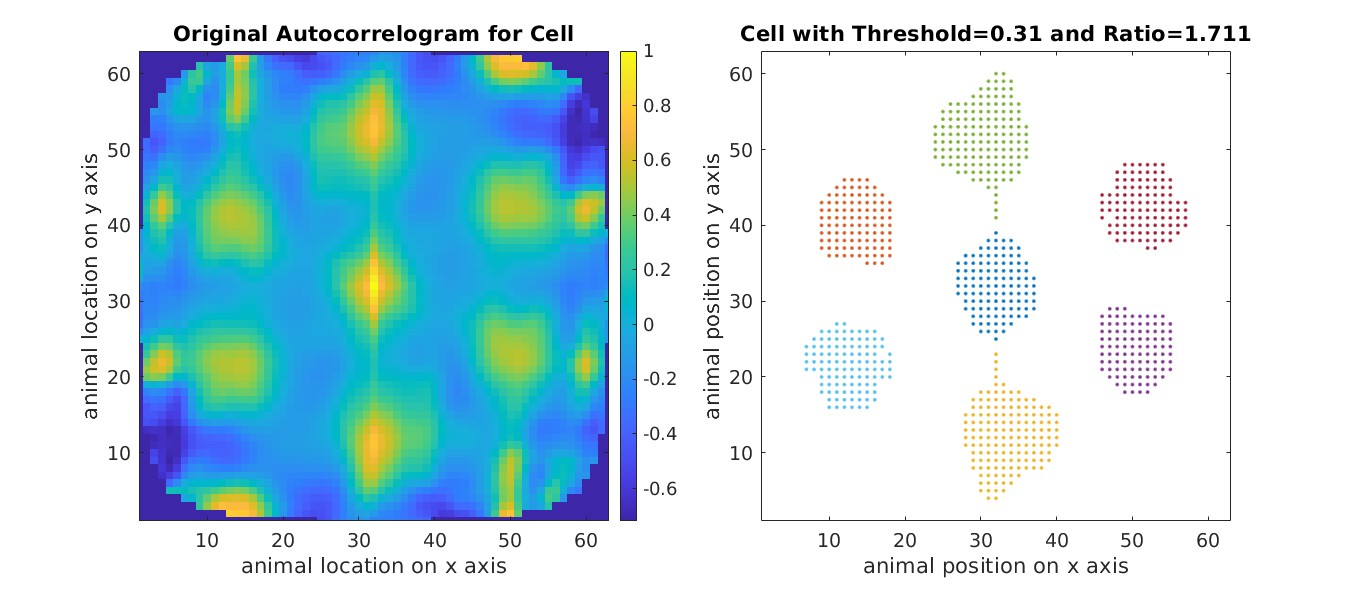
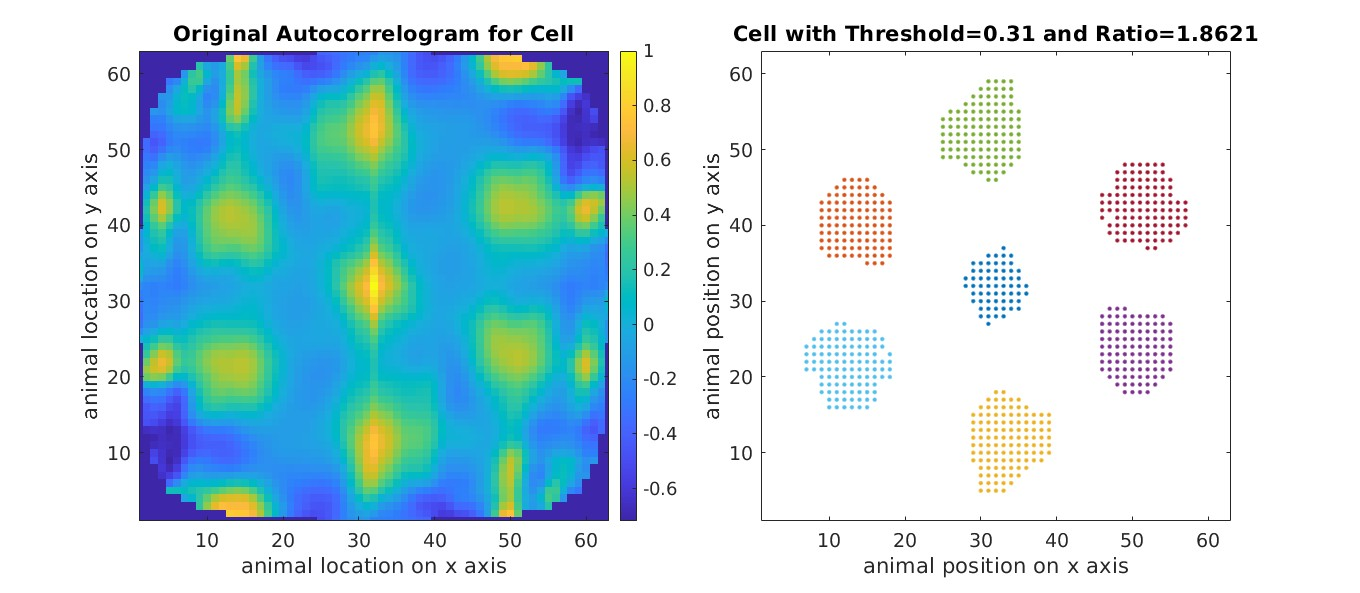
updated gridmet performance plot results

diff --git a/docs/gridcell_metrics/performance_tests.md b/docs/gridcell_metrics/performance_tests.md
@@ -17,103 +17,103 @@ Opexebo was used with its default configuration for testing. Each plot has the m
 <br>Note: the plots below are in the units of pixels that have not been converted to centimeters. For instance, in some plots, 32 pixels can represent 100 cm on the y-axis and also the x-axis.
 <br><br>Cell N1; Field Detection Correct
 <a href='https://github.com/Hippocampome-Org/hco_dev_docs/blob/master/media/performance_tests/n1.jpg?raw=true'><img src="https://github.com/Hippocampome-Org/hco_dev_docs/blob/master/media/performance_tests/n1.jpg?raw=true"  width="700"></a>
-Cell spacing: GridMet: 36.19 cm; Opexebo: 35.94 cm. (px2cm is 100/32 for n1-n29)
+Cell spacing: GridMet: 36.16 cm; Opexebo: 35.94 cm. (px2cm is 100/32 for n1-n29)
 <br><br>Cell N2; Field Detection Correct
 <a href='https://github.com/Hippocampome-Org/hco_dev_docs/blob/master/media/performance_tests/n2.jpg?raw=true'><img src="https://github.com/Hippocampome-Org/hco_dev_docs/blob/master/media/performance_tests/n2.jpg?raw=true"  width="700"></a>
-Cell spacing: GridMet: 38.34 cm; Opexebo: 38.32 cm.
+Cell spacing: GridMet: 38.25 cm; Opexebo: 38.32 cm.
 <br><br>Cell N3 Was Omitted from Testing Due to Having a Grid Score Below 0.2.
 <br><br>Cell N4; Field Detection Incorrect
 <a href='https://github.com/Hippocampome-Org/hco_dev_docs/blob/master/media/performance_tests/n4.jpg?raw=true'><img src="https://github.com/Hippocampome-Org/hco_dev_docs/blob/master/media/performance_tests/n4.jpg?raw=true"  width="700"></a>
 Notes: Cell N4 was observed to have incorrect detection because 2 of its 35 field area pixels are in the wrong field. This will have only very small effects on metric results but is still an error.
-<br>Cell spacing: GridMet: 39.53 cm; Opexebo: 39.13 cm.
+<br>Cell spacing: GridMet: 39.70 cm; Opexebo: 39.13 cm.
 <br><br>Cell N5; Field Detection Correct
 <a href='https://github.com/Hippocampome-Org/hco_dev_docs/blob/master/media/performance_tests/n5.jpg?raw=true'><img src="https://github.com/Hippocampome-Org/hco_dev_docs/blob/master/media/performance_tests/n5.jpg?raw=true"  width="700"></a>
-Cell spacing: GridMet: 45.53 cm; Opexebo: 46.28 cm.
+Cell spacing: GridMet: 45.61 cm; Opexebo: 46.28 cm.
 <br><br>Cell N6 Was Omitted from Testing Due to Having a Grid Score Below 0.2.
 <br>Cell N7 Was Omitted from Testing Due to Having a Grid Score Below 0.2.
 <br><br>Cell N8; Field Detection Correct
 <a href='https://github.com/Hippocampome-Org/hco_dev_docs/blob/master/media/performance_tests/n8.jpg?raw=true'><img src="https://github.com/Hippocampome-Org/hco_dev_docs/blob/master/media/performance_tests/n8.jpg?raw=true"  width="700"></a>
-Cell spacing: GridMet: 57.56 cm; Opexebo: 56.95 cm.
+Cell spacing: GridMet: 57.61 cm; Opexebo: 56.95 cm.
 <br><br>Cell N9 Was Omitted from Testing Due to Having a Grid Score Below 0.2.
 <br><br>Cell N10; Field Detection Correct
 <a href='https://github.com/Hippocampome-Org/hco_dev_docs/blob/master/media/performance_tests/n10.jpg?raw=true'><img src="https://github.com/Hippocampome-Org/hco_dev_docs/blob/master/media/performance_tests/n10.jpg?raw=true"  width="700"></a>
-Cell spacing: GridMet: 75.41 cm; Opexebo: 70.17 cm.
+Cell spacing: GridMet: 75.63 cm; Opexebo: 70.17 cm.
 <br><br>Cell N11; Field Detection Correct
 <a href='https://github.com/Hippocampome-Org/hco_dev_docs/blob/master/media/performance_tests/n11.jpg?raw=true'><img src="https://github.com/Hippocampome-Org/hco_dev_docs/blob/master/media/performance_tests/n11.jpg?raw=true"  width="700"></a>
 Note: Cell N11's field detection was not penalized for any merged fields because how to separate two pairs of fields in the original recording plot was considered to be unclear to the human evalulator. The automated field detection was not expected to go beyond the human evaluator's performance abilities.
-<br>Cell spacing: GridMet: 72.34 cm; Opexebo: 71.49 cm.
+<br>Cell spacing: GridMet: 72.38 cm; Opexebo: 71.49 cm.
 <br><br>Cell N12; Field Detection Correct
 <a href='https://github.com/Hippocampome-Org/hco_dev_docs/blob/master/media/performance_tests/n12.jpg?raw=true'><img src="https://github.com/Hippocampome-Org/hco_dev_docs/blob/master/media/performance_tests/n12.jpg?raw=true"  width="700"></a>
-<br>Cell spacing: GridMet: 44.75 cm; Opexebo: 73.27 cm.
+<br>Cell spacing: GridMet: 44.47 cm; Opexebo: 73.27 cm.
 <br>Note: Opexebo created a mean estimate of field spacings that appears less realistic then GridMet's estimate here.
 <br><br>Cell N13; Field Detection Correct
 <a href='https://github.com/Hippocampome-Org/hco_dev_docs/blob/master/media/performance_tests/n13.jpg?raw=true'><img src="https://github.com/Hippocampome-Org/hco_dev_docs/blob/master/media/performance_tests/n13.jpg?raw=true"  width="700"></a>
-<br>Cell spacing: GridMet: 44.44 cm; Opexebo: 44.11 cm.
+<br>Cell spacing: GridMet: 44.43 cm; Opexebo: 44.11 cm.
 <br><br>Cell N14; Field Detection Correct
 <a href='https://github.com/Hippocampome-Org/hco_dev_docs/blob/master/media/performance_tests/n14.jpg?raw=true'><img src="https://github.com/Hippocampome-Org/hco_dev_docs/blob/master/media/performance_tests/n14.jpg?raw=true"  width="700"></a>
-<br>Cell spacing: GridMet: 45.41 cm; Opexebo: 46.04 cm.
+<br>Cell spacing: GridMet: 45.40 cm; Opexebo: 46.04 cm.
 <br><br>Cell N15; Field Detection Correct
 <a href='https://github.com/Hippocampome-Org/hco_dev_docs/blob/master/media/performance_tests/n15.jpg?raw=true'><img src="https://github.com/Hippocampome-Org/hco_dev_docs/blob/master/media/performance_tests/n15.jpg?raw=true"  width="700"></a>
-<br>Cell spacing: GridMet: 47.41 cm; Opexebo: 46.79 cm.
+<br>Cell spacing: GridMet: 15.12 cm; Opexebo: 46.79 cm.
 <br><br>Cell N16; Field Detection Correct
 <a href='https://github.com/Hippocampome-Org/hco_dev_docs/blob/master/media/performance_tests/n16.jpg?raw=true'><img src="https://github.com/Hippocampome-Org/hco_dev_docs/blob/master/media/performance_tests/n16.jpg?raw=true"  width="700"></a>
-<br>Cell spacing: GridMet: 44.19 cm; Opexebo: 44.83 cm.
+<br>Cell spacing: GridMet: 44.23 cm; Opexebo: 44.83 cm.
 <br><br>Cell N17; Field Detection Correct
 <a href='https://github.com/Hippocampome-Org/hco_dev_docs/blob/master/media/performance_tests/n17.jpg?raw=true'><img src="https://github.com/Hippocampome-Org/hco_dev_docs/blob/master/media/performance_tests/n17.jpg?raw=true"  width="700"></a>
-<br>Cell spacing: GridMet: 75.78 cm; Opexebo: 72.62 cm.
+<br>Cell spacing: GridMet: 75.69 cm; Opexebo: 72.62 cm.
 <br><br>Cell N18; Field Detection Correct
 <a href='https://github.com/Hippocampome-Org/hco_dev_docs/blob/master/media/performance_tests/n18.jpg?raw=true'><img src="https://github.com/Hippocampome-Org/hco_dev_docs/blob/master/media/performance_tests/n18.jpg?raw=true"  width="700"></a>
-<br>Cell spacing: GridMet: 45.81 cm; Opexebo: 74.48 cm.
+<br>Cell spacing: GridMet: 45.75 cm; Opexebo: 74.48 cm.
 <br>Note: Opexebo created a mean estimate of field spacings that appears less realistic then GridMet's estimate here.
 <br><br>Cell N19; Field Detection Correct
 <a href='https://github.com/Hippocampome-Org/hco_dev_docs/blob/master/media/performance_tests/n19.jpg?raw=true'><img src="https://github.com/Hippocampome-Org/hco_dev_docs/blob/master/media/performance_tests/n19.jpg?raw=true"  width="700"></a>
-<br>Cell spacing: GridMet: 44.22 cm; Opexebo: 44.30 cm.
+<br>Cell spacing: GridMet: 44.20 cm; Opexebo: 44.30 cm.
 <br><br>Cell N20; Field Detection Correct
 <a href='https://github.com/Hippocampome-Org/hco_dev_docs/blob/master/media/performance_tests/n20.jpg?raw=true'><img src="https://github.com/Hippocampome-Org/hco_dev_docs/blob/master/media/performance_tests/n20.jpg?raw=true"  width="700"></a>
-<br>Cell spacing: GridMet: 44.88 cm; Opexebo: 75.13 cm.
+<br>Cell spacing: GridMet: 44.85 cm; Opexebo: 75.13 cm.
 <br>Note: Opexebo created a mean estimate of field spacings that appears less realistic then GridMet's estimate here.
 <br><br>Cell N21; Field Detection Correct
 <a href='https://github.com/Hippocampome-Org/hco_dev_docs/blob/master/media/performance_tests/n21.jpg?raw=true'><img src="https://github.com/Hippocampome-Org/hco_dev_docs/blob/master/media/performance_tests/n21.jpg?raw=true"  width="700"></a>
-<br>Cell spacing: GridMet: 54.09 cm; Opexebo: 54.97 cm.
+<br>Cell spacing: GridMet: 54.21 cm; Opexebo: 54.97 cm.
 <br><br>Cell N22; Field Detection Correct
 <a href='https://github.com/Hippocampome-Org/hco_dev_docs/blob/master/media/performance_tests/n22.jpg?raw=true'><img src="https://github.com/Hippocampome-Org/hco_dev_docs/blob/master/media/performance_tests/n22.jpg?raw=true"  width="700"></a>
-<br>Cell spacing: GridMet: 44.13 cm; Opexebo: 43.32 cm.
+<br>Cell spacing: GridMet: 44.21 cm; Opexebo: 43.32 cm.
 <br><br>Cell N23; Field Detection Correct
 <a href='https://github.com/Hippocampome-Org/hco_dev_docs/blob/master/media/performance_tests/n23.jpg?raw=true'><img src="https://github.com/Hippocampome-Org/hco_dev_docs/blob/master/media/performance_tests/n23.jpg?raw=true"  width="700"></a>
 <br>Cell spacing: GridMet: 45.78 cm; Opexebo: 45.55 cm.
 <br><br>Cell N24; Field Detection Correct
 <a href='https://github.com/Hippocampome-Org/hco_dev_docs/blob/master/media/performance_tests/n24.jpg?raw=true'><img src="https://github.com/Hippocampome-Org/hco_dev_docs/blob/master/media/performance_tests/n24.jpg?raw=true"  width="700"></a>
-<br>Cell spacing: GridMet: 44.72 cm; Opexebo: 74.48 cm.
+<br>Cell spacing: GridMet: 44.63 cm; Opexebo: 74.48 cm.
 <br>Note: Opexebo created a mean estimate of field spacings that appears less realistic then GridMet's estimate here.
 <br><br>Cell N25; Field Detection Correct
 <a href='https://github.com/Hippocampome-Org/hco_dev_docs/blob/master/media/performance_tests/n25.jpg?raw=true'><img src="https://github.com/Hippocampome-Org/hco_dev_docs/blob/master/media/performance_tests/n25.jpg?raw=true"  width="700"></a>
-<br>Cell spacing: GridMet: 46.03 cm; Opexebo: 46.04 cm.
+<br>Cell spacing: GridMet: 46.09 cm; Opexebo: 46.04 cm.
 <br><br>Cell N26; Field Detection Correct
 <a href='https://github.com/Hippocampome-Org/hco_dev_docs/blob/master/media/performance_tests/n26.jpg?raw=true'><img src="https://github.com/Hippocampome-Org/hco_dev_docs/blob/master/media/performance_tests/n26.jpg?raw=true"  width="700"></a>
-<br>Cell spacing: GridMet: 45.16 cm; Opexebo: 46.04 cm.
+<br>Cell spacing: GridMet: 45.07 cm; Opexebo: 46.04 cm.
 <br><br>Cell N27; Field Detection Correct
 <a href='https://github.com/Hippocampome-Org/hco_dev_docs/blob/master/media/performance_tests/n27.jpg?raw=true'><img src="https://github.com/Hippocampome-Org/hco_dev_docs/blob/master/media/performance_tests/n27.jpg?raw=true"  width="700"></a>
-<br>Cell spacing: GridMet: 60.22 cm; Opexebo: 62.38 cm.
+<br>Cell spacing: GridMet: 60.29 cm; Opexebo: 62.38 cm.
 <br><br>Cell N28; Field Detection Correct
 <a href='https://github.com/Hippocampome-Org/hco_dev_docs/blob/master/media/performance_tests/n28.jpg?raw=true'><img src="https://github.com/Hippocampome-Org/hco_dev_docs/blob/master/media/performance_tests/n28.jpg?raw=true"  width="700"></a>
-<br>Cell spacing: GridMet: 65.22 cm; Opexebo: 62.47 cm.
+<br>Cell spacing: GridMet: 65.09 cm; Opexebo: 62.47 cm.
 <br><br>Cell N29; Field Detection Correct
 <a href='https://github.com/Hippocampome-Org/hco_dev_docs/blob/master/media/performance_tests/n29.jpg?raw=true'><img src="https://github.com/Hippocampome-Org/hco_dev_docs/blob/master/media/performance_tests/n29.jpg?raw=true"  width="700"></a>
-<br>Cell spacing: GridMet: 65.03 cm; Opexebo: 65.75 cm.
+<br>Cell spacing: GridMet: 65.44 cm; Opexebo: 65.75 cm.
 Note: Cell numbering skips N30, N31, and N32.
 <br><br>Cell N33; Field Detection Correct
 <a href='https://github.com/Hippocampome-Org/hco_dev_docs/blob/master/media/performance_tests/n33.jpg?raw=true'><img src="https://github.com/Hippocampome-Org/hco_dev_docs/blob/master/media/performance_tests/n33.jpg?raw=true"  width="700"></a>
-<br>Cell spacing: GridMet: 36.07 cm; Opexebo: 32.27 cm. (px2cm is 45/32 for n33-n37)
+<br>Cell spacing: GridMet: 36.35 cm; Opexebo: 32.27 cm. (px2cm is 45/32 for n33-n37)
 <br><br>Cell N34; Field Detection Correct
 <a href='https://github.com/Hippocampome-Org/hco_dev_docs/blob/master/media/performance_tests/n34.jpg?raw=true'><img src="https://github.com/Hippocampome-Org/hco_dev_docs/blob/master/media/performance_tests/n34.jpg?raw=true"  width="700"></a>
-<br>Cell spacing: GridMet: 32.02 cm; Opexebo: 25.35 cm.
+<br>Cell spacing: GridMet: 32.00 cm; Opexebo: 25.35 cm.
 <br><br>Cell N35; Field Detection Incorrect
 <a href='https://github.com/Hippocampome-Org/hco_dev_docs/blob/master/media/performance_tests/n35.jpg?raw=true'><img src="https://github.com/Hippocampome-Org/hco_dev_docs/blob/master/media/performance_tests/n35.jpg?raw=true"  width="700"></a>
 Note: Cell N35 was observed to have incorrect detection because it has two instances of merged fields. These instances will only have small effects on its metrics. The human evaluator could clearly distinguish the seperate field areas in each pair of fields that were merged in detection in this case. The evaluator being able to distinguish these areas caused an expectation for the automated detection to also create that if its detection is to be considered correct.
-<br>Cell spacing: GridMet: 32.01 cm; Opexebo: 29.74 cm.
+<br>Cell spacing: GridMet: 31.58 cm; Opexebo: 29.74 cm.
 <br><br>Cell N36; Field Detection Correct
 <a href='https://github.com/Hippocampome-Org/hco_dev_docs/blob/master/media/performance_tests/n36.jpg?raw=true'><img src="https://github.com/Hippocampome-Org/hco_dev_docs/blob/master/media/performance_tests/n36.jpg?raw=true"  width="700"></a>
-<br>Cell spacing: GridMet: 24.47 cm; Opexebo: 24.24 cm.
+<br>Cell spacing: GridMet: 24.44 cm; Opexebo: 24.24 cm.
 <br><br>Cell N37; Field Detection Correct
 <a href='https://github.com/Hippocampome-Org/hco_dev_docs/blob/master/media/performance_tests/n37.jpg?raw=true'><img src="https://github.com/Hippocampome-Org/hco_dev_docs/blob/master/media/performance_tests/n37.jpg?raw=true"  width="700"></a>
 <br>Cell spacing: GridMet: 29.26 cm; Opexebo: 29.50 cm.
